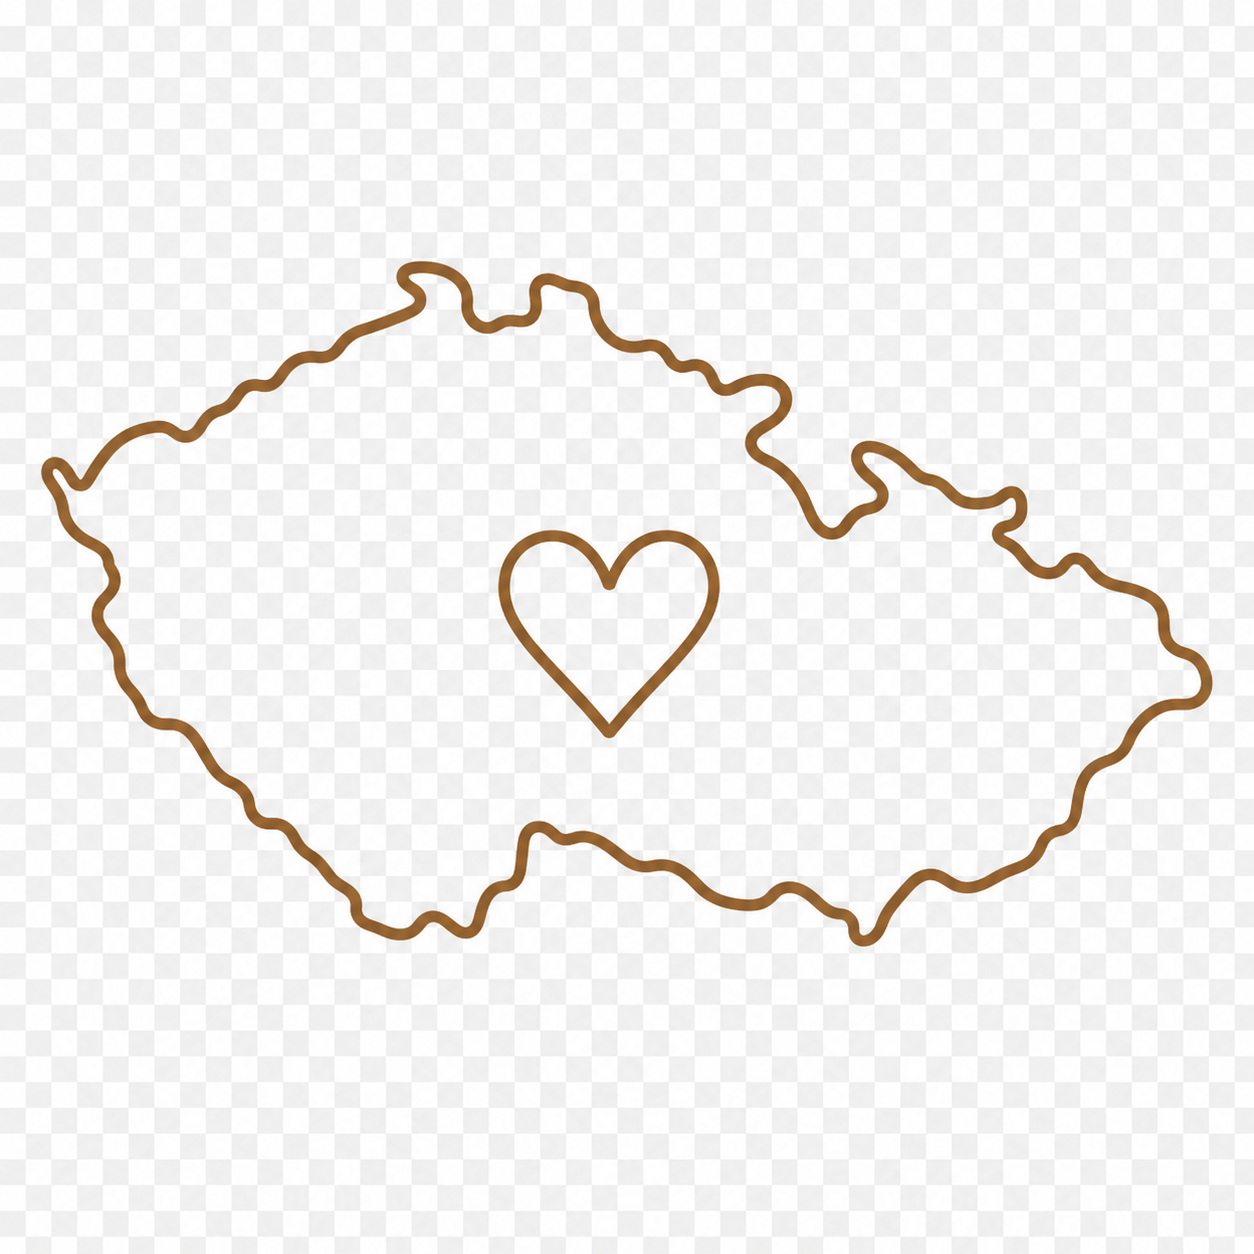
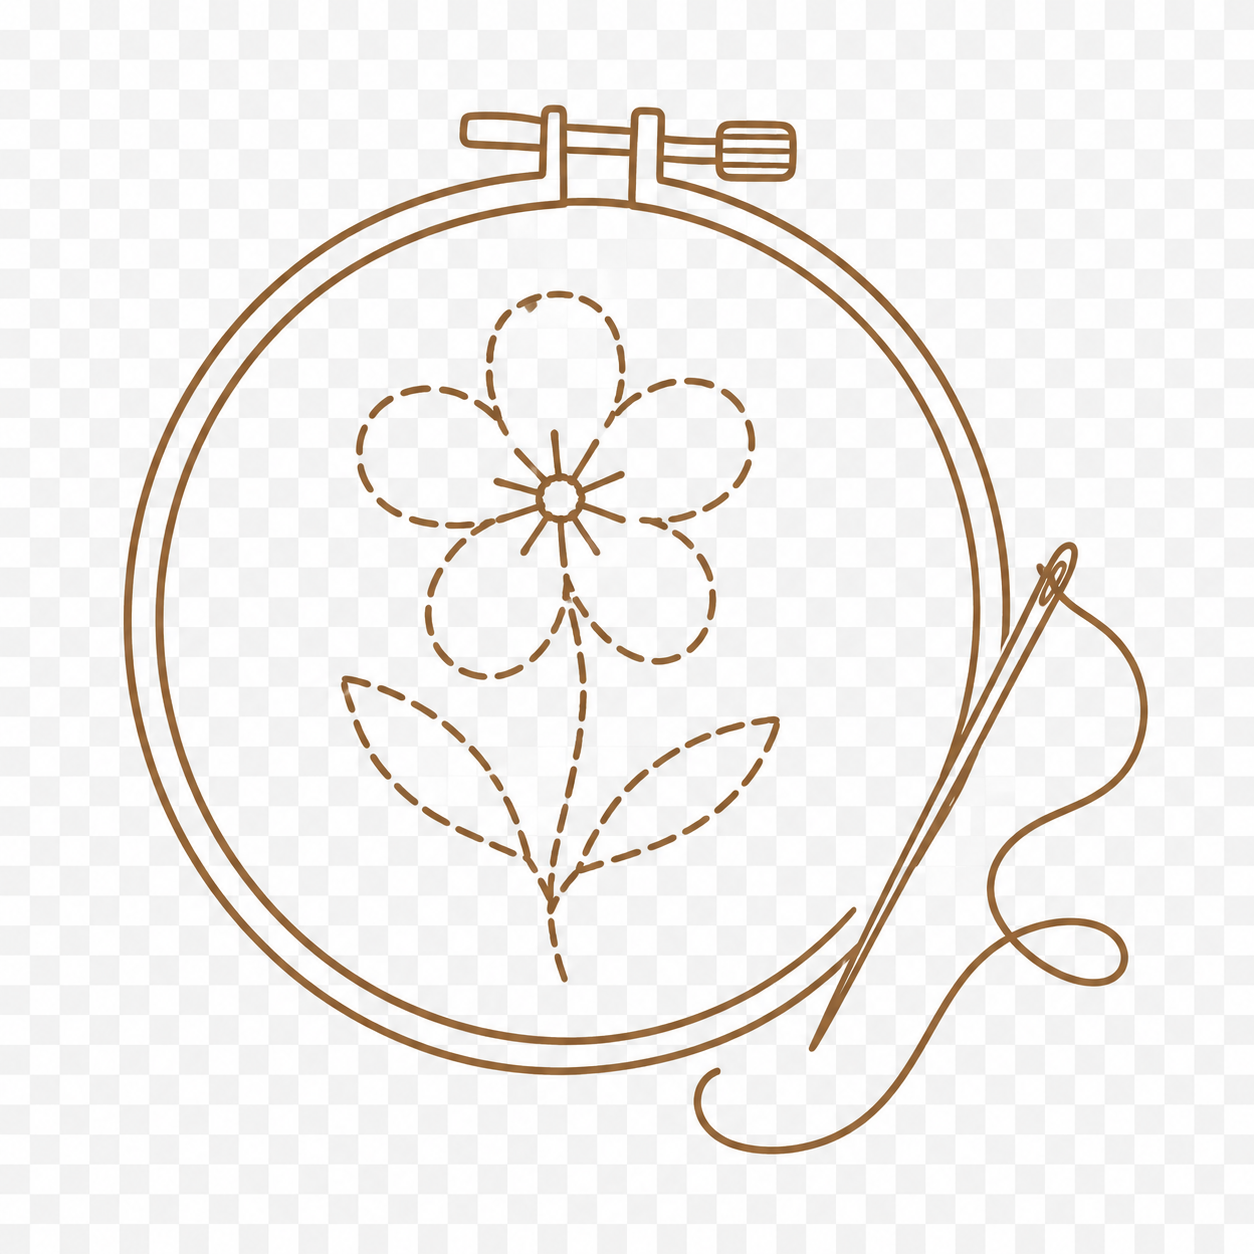
fix: prohozené ikony + background-size contain + odebrán mix-blend-mode

diff --git a/css/style.css b/css/style.css
@@ -398,10 +398,9 @@ nav.scrolled {
   width: 160px;
   height: 160px;
   margin: 0 auto 4px;
-  background-size: 290%;
+  background-size: contain;
   background-position: center;
   background-repeat: no-repeat;
-  mix-blend-mode: multiply;
 }
 
 .value-card h3 {
